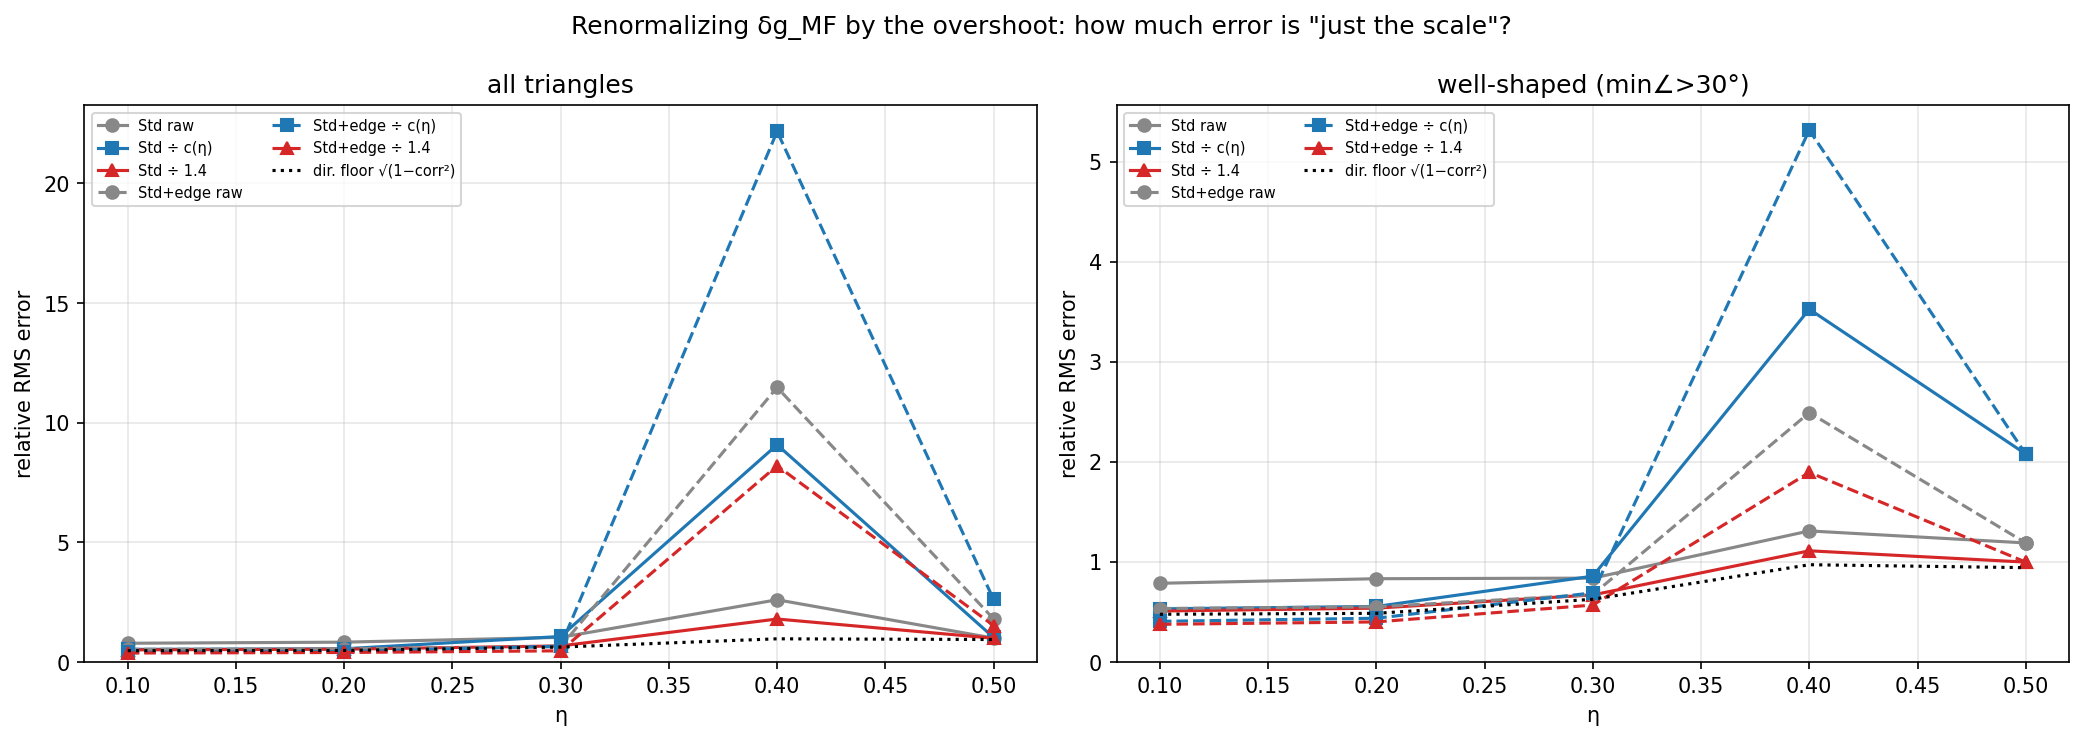
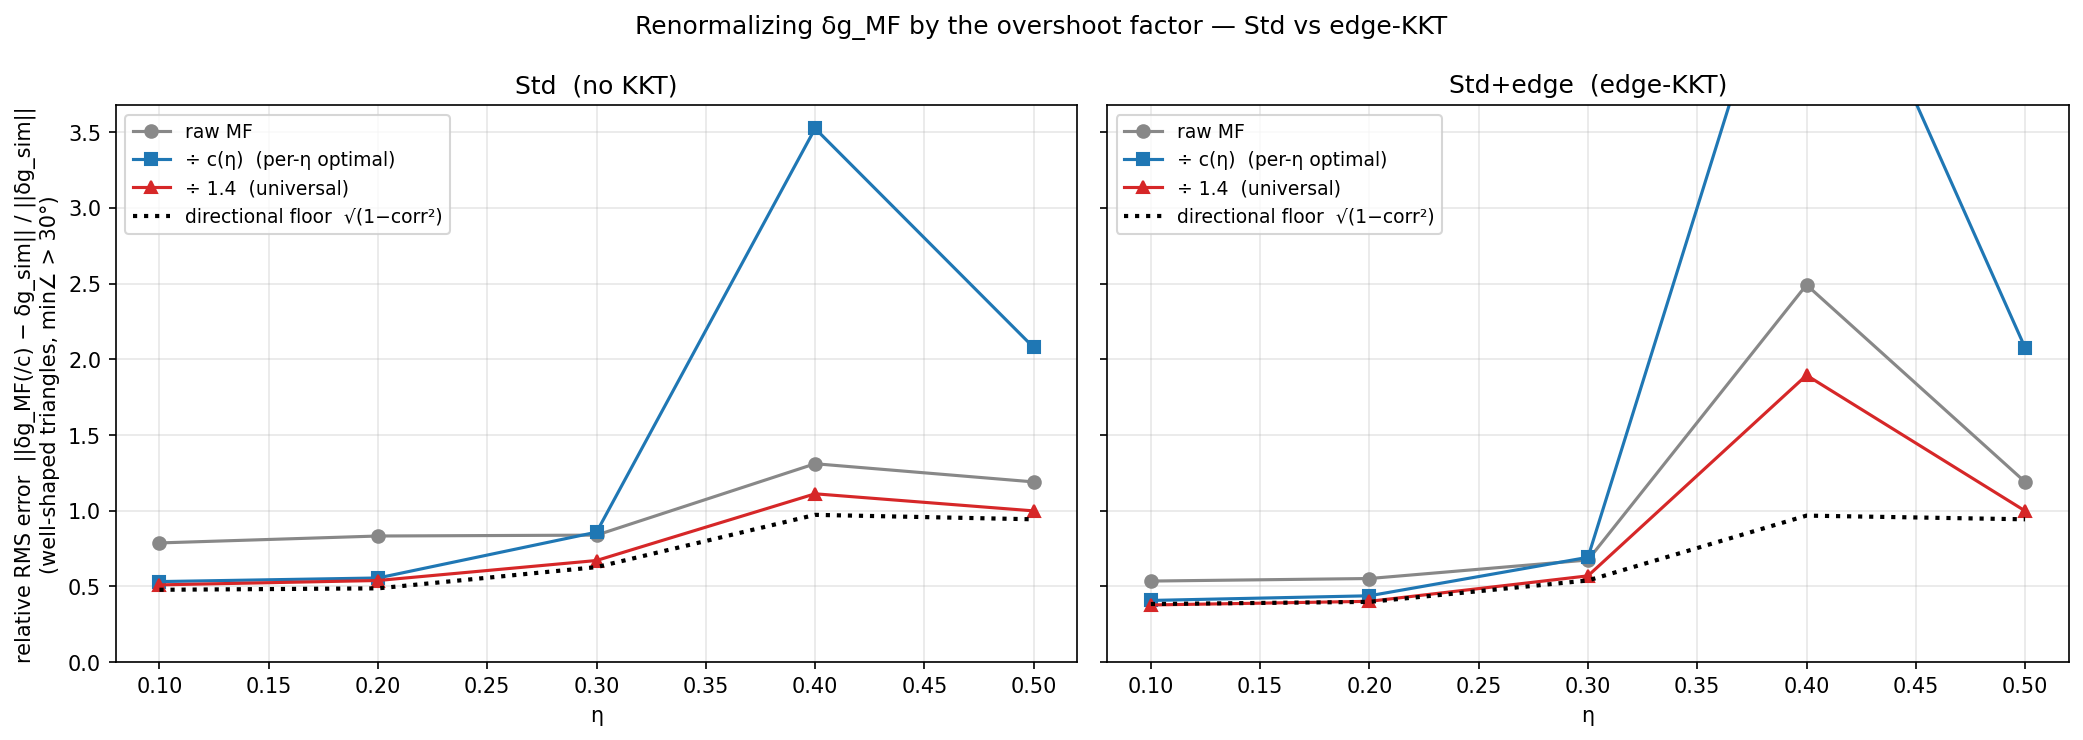
breakdown: split renormalization plot into two panels (Std vs Std+edge)
Previous single-axes version encoded method only by line style (solid/dashed),
which was ambiguous in the legend. Now one panel per method with clearly-labeled
raw / per-eta / universal-1.4 curves and the directional floor.

https://claude.ai/code/session_01LTDrN2qP3bjq6eueEmYp15

diff --git a/breakdown/test_renormalize.py b/breakdown/test_renormalize.py
@@ -77,21 +77,20 @@ def main():
         print(f"{eta:>5.1f} {o['raw'][i]:>8.2f} {o['reN'][i]:>8.2f} {o['r14'][i]:>9.2f} | "
               f"{o['rawG'][i]:>8.2f} {o['reNG'][i]:>8.2f} {o['r14G'][i]:>9.2f} {o['corrG'][i]:>8.2f}")
 
-    fig, axes = plt.subplots(1, 2, figsize=(14, 5))
-    for ax, scope, ttl in [(axes[0], ('raw', 'reN', 'r14'), 'all triangles'),
-                           (axes[1], ('rawG', 'reNG', 'r14G'), 'well-shaped (min∠>30°)')]:
-        for m, ls in [('Std', '-'), ('Std+edge', '--')]:
-            o = out[m]
-            ax.plot(ETAS, o[scope[0]], ls + 'o', color='#888', label=f'{m} raw')
-            ax.plot(ETAS, o[scope[1]], ls + 's', color='#1f77b4', label=f'{m} ÷ c(η)')
-            ax.plot(ETAS, o[scope[2]], ls + '^', color='#d62728', label=f'{m} ÷ 1.4')
-        # irreducible floor sqrt(1-corr^2) for Std (corr on >30 set)
-        floor = np.sqrt(np.clip(1 - np.array(out['Std']['corrG'])**2, 0, 1))
-        ax.plot(ETAS, floor, ':', color='k', label='dir. floor √(1−corr²)')
-        ax.set_xlabel('η'); ax.set_ylabel('relative RMS error'); ax.set_title(ttl)
-        ax.legend(fontsize=7, ncol=2); ax.grid(alpha=0.3); ax.set_ylim(0, None)
-    fig.suptitle('Renormalizing δg_MF by the overshoot: how much error is "just the scale"?',
-                 fontsize=12)
+    fig, axes = plt.subplots(1, 2, figsize=(14, 5), sharey=True)
+    for ax, m, ttl in [(axes[0], 'Std', 'Std  (no KKT)'),
+                       (axes[1], 'Std+edge', 'Std+edge  (edge-KKT)')]:
+        o = out[m]
+        ax.plot(ETAS, o['rawG'], '-o', color='#888888', label='raw MF')
+        ax.plot(ETAS, o['reNG'], '-s', color='#1f77b4', label='÷ c(η)  (per-η optimal)')
+        ax.plot(ETAS, o['r14G'], '-^', color='#d62728', label='÷ 1.4  (universal)')
+        floor = np.sqrt(np.clip(1 - np.array(o['corrG'])**2, 0, 1))
+        ax.plot(ETAS, floor, ':', color='k', lw=2, label='directional floor  √(1−corr²)')
+        ax.set_xlabel('η'); ax.set_title(ttl); ax.grid(alpha=0.3)
+        ax.legend(fontsize=9); ax.set_ylim(0, None)
+    axes[0].set_ylabel('relative RMS error  ||δg_MF(/c) − δg_sim|| / ||δg_sim||\n'
+                       '(well-shaped triangles, min∠ > 30°)')
+    fig.suptitle('Renormalizing δg_MF by the overshoot factor — Std vs edge-KKT', fontsize=12)
     plt.tight_layout()
     p = os.path.join(PLOTS, 'dg_renormalize_test.png')
     plt.savefig(p, dpi=150, bbox_inches='tight'); plt.close()
